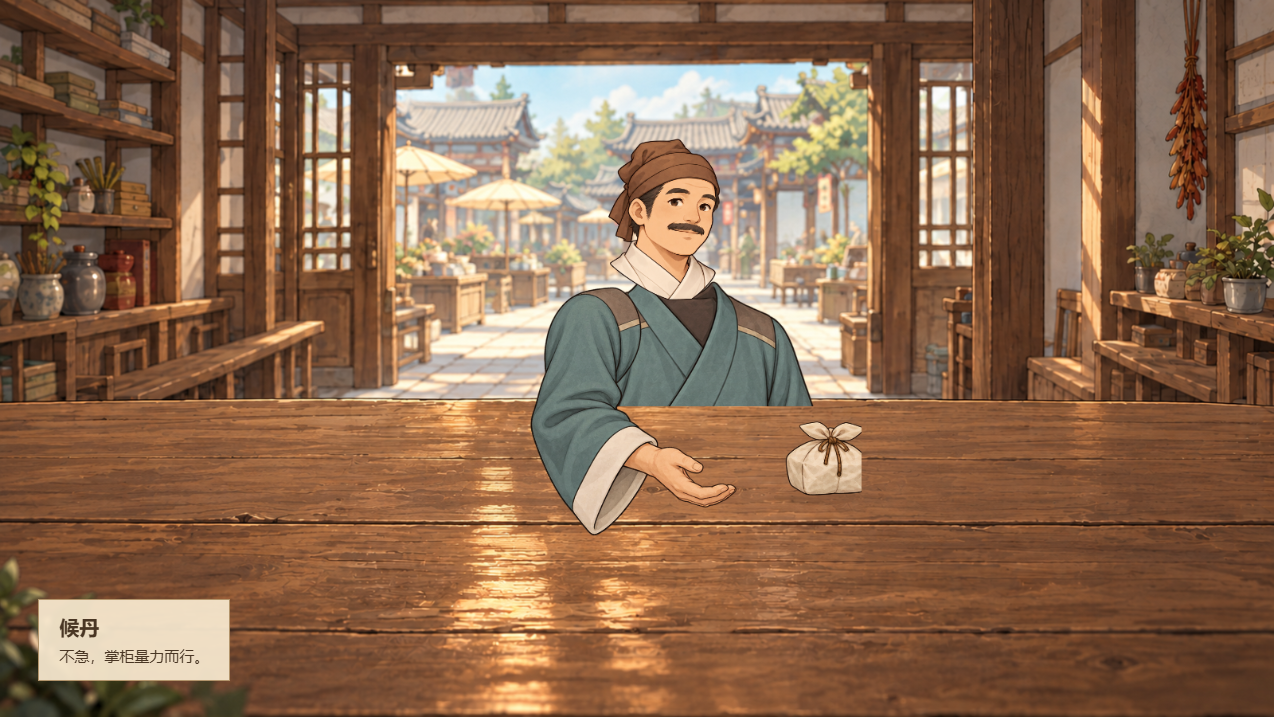
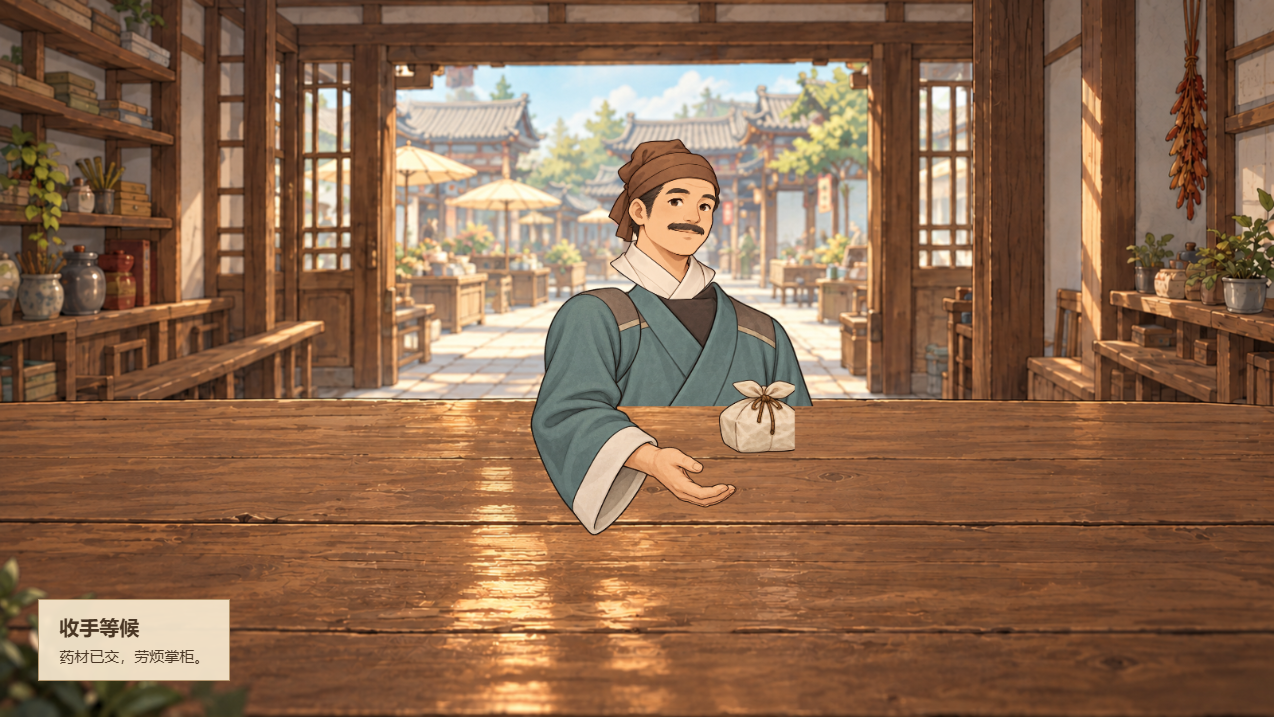
Reject animation quality review and fix parcel contact continuity

Changed region(s): [[0.551, 0.5216, 0.7041, 0.7057], [0.0306, 0.8591, 0.1531, 0.9205]]

diff --git a/previews/customer-animation-v52/animation.js b/previews/customer-animation-v52/animation.js
@@ -14,7 +14,7 @@ function draw(time){if(!loaded)return;time=Math.max(0,Math.min(duration,time));b
  const angle=lerp(-.10,.08,offer)+withdraw*.20;
  const pivot={x:737+offset,y:368+breath};
  const palm={x:pivot.x+Math.cos(angle)*220-Math.sin(angle)*177,y:pivot.y+Math.sin(angle)*220+Math.cos(angle)*177};
- packetOnTable=time>=5.25;phase=time<.9?'入位':time<3.5?'等候':time<5.25?'递药':time<7.5?'候丹':time<9?'满意回应':time<10.2?'离场':'离柜';
+ packetOnTable=time>=4.75;phase=time<.9?'入位':time<3.5?'等候':time<5.25?'递药':time<7.5?'收手等候':time<9?'确认托付':time<10.2?'离场':'离柜';
  // Only upper torso/head breathe; the entire figure never stretches.
  ctx.save();ctx.globalAlpha=alpha;sprite(rig,2172,724,[325,10,525,700],700+offset,340+breath,350,467);
  const blink=(time>2.15&&time<2.29)||(time>6.25&&time<6.39);
@@ -25,11 +25,12 @@ function draw(time){if(!loaded)return;time=Math.max(0,Math.min(duration,time));b
  // Repaint the exact painted tabletop, then draw the near arm on top of it.
  ctx.save();ctx.beginPath();ctx.rect(0,510,1600,390);ctx.clip();backdrop();ctx.restore();
  if(alpha>0){ctx.save();ctx.globalAlpha=alpha;ctx.translate(pivot.x,pivot.y);ctx.rotate(angle);sprite(rig,2172,724,[943,88,600,570],-65,-23,330,314);ctx.restore();}
- const handBag={x:palm.x-56,y:palm.y-94},land={x:970,y:520},flight=ease((time-4.75)/.5);
- if(time<5.25&&time<10.2){const x=lerp(handBag.x,land.x,flight),y=lerp(handBag.y,land.y,flight)-Math.sin(flight*Math.PI)*12;ctx.save();ctx.globalAlpha=alpha;sprite(rig,2172,724,[1635,325,230,220],x,y,112,107);ctx.restore();}
- else if(time>=5.25){ctx.save();ctx.fillStyle='#4a321d25';ctx.beginPath();ctx.ellipse(1026,624,54,10,0,0,Math.PI*2);ctx.fill();sprite(rig,2172,724,[1635,325,230,220],land.x,land.y,112,107);ctx.restore();}
+ const handBag={x:palm.x-56,y:palm.y-94};
+ const contactBreath=Math.sin(4.75*2.1)*1.2,land={x:737+Math.cos(.08)*220-Math.sin(.08)*177-56,y:368+contactBreath+Math.sin(.08)*220+Math.cos(.08)*177-94};
+ if(time<4.75){const x=handBag.x,y=handBag.y;ctx.save();ctx.globalAlpha=alpha;sprite(rig,2172,724,[1635,325,230,220],x,y,112,107);ctx.restore();}
+ else if(time>=4.75){ctx.save();ctx.fillStyle='#4a321d25';ctx.beginPath();ctx.ellipse(land.x+56,land.y+104,54,10,0,0,Math.PI*2);ctx.fill();sprite(rig,2172,724,[1635,325,230,220],land.x,land.y,112,107);ctx.restore();}
  document.getElementById('phase').textContent=phase;
- document.getElementById('dialogue').textContent=({入位:'掌柜，叨扰了。',等候:'这包药材，劳烦代炼。',递药:'药材在这里，请收好。',候丹:'不急，掌柜量力而行。',满意回应:'多谢掌柜，药材就托付给你了。',离场:'告辞，下回再来。',离柜:'药包交接演示结束。'})[phase];
+ document.getElementById('dialogue').textContent=({入位:'掌柜，叨扰了。',等候:'这包药材，劳烦代炼。',递药:'药材在这里，请收好。',收手等候:'药材已交，劳烦掌柜。',确认托付:'多谢掌柜，药材就托付给你了。',离场:'告辞，下回再来。',离柜:'药包交接演示结束。'})[phase];
  document.getElementById('timeline').value=time;document.getElementById('time').textContent=time.toFixed(1)+' 秒';
 }
 function tick(now){if(!loaded)return;const dt=Math.min((now-last)/1000,.05);last=now;if(playing){t+=dt;if(t>duration){if(document.getElementById('loop').checked)t%=duration;else{t=duration;playing=false;}}}draw(t);document.getElementById('play').textContent=playing?'暂停':'播放';if(playing)raf=requestAnimationFrame(tick);}

diff --git a/previews/customer-animation-v52/preview.html b/previews/customer-animation-v52/preview.html
@@ -1,1 +1,1 @@
-<!doctype html><html lang="zh-CN"><meta charset="utf-8"><meta name="viewport" content="width=device-width,initial-scale=1"><title>行商客人 · 分层动效 V52</title><link rel="stylesheet" href="preview.css"><main><header><h1>行商客人 · 接待动效</h1><p>一名客人的完整演示：入位、等候、递药、回应、离场。演示不会执行游戏订单结算。</p></header><div class="screen"><canvas id="scene" width="1600" height="900" aria-label="行商客人的柜台动效"></canvas><div class="caption"><strong id="phase">素材加载中</strong><span id="dialogue"></span></div></div><nav><button id="play">暂停</button><button id="replay">从头播放</button><label><input type="checkbox" id="loop" checked> 循环演示</label><label>进度 <input id="timeline" type="range" min="0" max="11" step=".01" value="0"></label><output id="time">0.0 秒</output></nav><div class="steps"><button data-time="1.5">等候</button><button data-time="4.5">递药</button><button data-time="6">药包已落柜</button><button data-time="8">满意回应</button><button data-time="9.5">离场</button></div><p class="note">身体位于柜后，近侧袖臂与药包位于柜面前景；呼吸仅影响肩胸与头部的微小位移，不拉伸人物。眨眼只替换眼部，不重绘整个人。可拖动进度逐帧检查。</p><details><summary>查看源组件</summary><img src="body-arm-parcel.png" alt="躯干、近侧袖臂、独立药包"><img src="expressions.png" alt="行商的睁眼、闭眼、微笑表情"></details><p><a href="ACCEPTANCE.md">制作与验收记录</a></p></main><script src="animation.js"></script></html>
+<!doctype html><html lang="zh-CN"><meta charset="utf-8"><meta name="viewport" content="width=device-width,initial-scale=1"><title>行商客人 · 分层动效 V52</title><link rel="stylesheet" href="preview.css"><main><header><h1>行商动效复审：未通过</h1><p>已修正药包自行飞离掌心；关节动作与入离场仍未通过。此页仅供复审，不作为完成品，也不会执行订单结算。</p></header><div class="screen"><canvas id="scene" width="1600" height="900" aria-label="行商客人的柜台动效"></canvas><div class="caption"><strong id="phase">素材加载中</strong><span id="dialogue"></span></div></div><nav><button id="play">暂停</button><button id="replay">从头播放</button><label><input type="checkbox" id="loop" checked> 循环演示</label><label>进度 <input id="timeline" type="range" min="0" max="11" step=".01" value="0"></label><output id="time">0.0 秒</output></nav><div class="steps"><button data-time="1.5">等候</button><button data-time="4.5">递药</button><button data-time="6">药包已落柜</button><button data-time="8">确认托付</button><button data-time="9.5">离场</button></div><p class="note">身体位于柜后，近侧袖臂与药包位于柜面前景；呼吸仅影响肩胸与头部的微小位移，不拉伸人物。眨眼只替换眼部，不重绘整个人。旧视频已撤回成品演示用途，问题详见复审记录。可拖动进度逐帧检查。</p><details><summary>查看源组件</summary><img src="body-arm-parcel.png" alt="躯干、近侧袖臂、独立药包"><img src="expressions.png" alt="行商的睁眼、闭眼、微笑表情"></details><p><a href="REVIEW.md">复审问题清单</a> · <a href="ACCEPTANCE.md">原验收记录（已撤回）</a></p></main><script src="animation.js"></script></html>

diff --git a/previews/customer-animation-v52/REVIEW.md b/previews/customer-animation-v52/REVIEW.md
@@ -1,0 +1,22 @@
+# V52 动效复审：不通过
+
+2026-10-31。用户要求最基本审查后，重新检查关键帧，而非以状态、按钮和脚本检查代替动效质量验收。本结论替代此前ACCEPTANCE.md中的演示可验收描述。
+
+## 明确问题
+
+1. **递药接触错误（严重）**：原4.75–5.25秒，手臂停止在递出姿态，药包自行沿曲线移向另一位置。review/4.75.png、5.png、5.25.png可见物件脱离掌心。这是物体插值，不是角色放下物件。
+2. **手臂刚性（严重）**：上臂、前臂、手作为一整块绕肩转动，没有肘部弯伸或手指松开动作，肩部套接和袖褶会显得生硬。源组件中左右手的笔触、尺寸与人物其他部位也需要统一，不应直接批量扩展。
+3. **离场为纸片移动（明显）**：人物只平移、淡出，身体没有对应转向、重心变化；淡出时不同图层重叠区域透明度叠加，不像实体遮挡。不能称为自然入离场或完整角色动作。
+4. **表现名称不准确**：没有炼化行为就写“候丹/满意回应”，容易把时间线演示误认为完整炼丹交互；实际只做了托付药材与点头。
+5. **验收方式不足**：原测试只证明状态切换、重播和按钮可用，不能证明头身、接触、关节和表演自然。上一轮的“完成”表述不成立。
+
+## 本次立即修正
+
+- 删除药包脱手后的独立飞行路径。持有时始终跟随掌心；将递出末端的实际掌心位置作为落柜锚点；药包停稳后手臂再收回。修正后仍不等于完成精细放手动作。
+- “候丹”改为“收手等候”，不暗示演示中发生了炼丹。
+- 旧视频merchant-animation.webm保留为复审证据，不再作为最新修正版的成品演示。新的帧截图与可交互页面对应代码修正后的结果。
+- ACCEPTANCE.md顶部明确标记不通过；保留历史说明但不能据此进行游戏接入或角色量产。
+
+## 下一轮必须满足的通过条件
+
+上臂/前臂/手分层或制作必要关键姿态，固定肩肘腕锚点；交接物件接触由手部动作约束；落下前不脱掌、落下后不随人；准备好手指松开和收手姿态。入离场要么明确仅为界面出现/关闭，要么重做转身/重心动作，不能用半透明漂移冒充角色走动。表情只改面部且无形变跳动；在柜台真实显示尺寸复查后再谈动效验收。

diff --git a/previews/customer-animation-v52/ACCEPTANCE.md b/previews/customer-animation-v52/ACCEPTANCE.md
@@ -1,5 +1,8 @@
 # 行商单角色动效 V52
 
+> 复审不通过。此前演示可验收的结论已撤回，以 REVIEW.md 为准。旧视频保留作问题证据，不是当前修正版成品。
+
+
 2026-10-31。交付一个可播放、暂停、重播和拖动时间线的角色接待动效演示，不自动执行主游戏委托、不修改经济规则。
 
 ## 已完成
